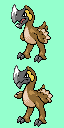
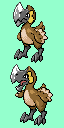
sprite changes & slight stat changes

Changed region(s): [[0.1562, 0.0, 0.8125, 0.5], [0.1562, 0.5, 0.8438, 1.0]]

diff --git a/src/data/pokemon/species_info/custom.h b/src/data/pokemon/species_info/custom.h
@@ -142,7 +142,7 @@ const struct SpeciesInfo gSpeciesInfoGen2[] =
         BACK_PIC(Toxatrice, 64, 64),
         BACK_PIC_FEMALE(Toxatrice, 64, 64),
         .backPicYOffset = 2,
-        .backAnimId = BACK_ANIM_JOLT_RIGHT,
+        .backAnimId = BACK_ANIM_DIP_RIGHT_SIDE,
         PALETTES(Toxatrice),
         ICON(Toxatrice, 2),
         ICON_FEMALE(Toxatrice, 2),
@@ -240,7 +240,7 @@ const struct SpeciesInfo gSpeciesInfoGen2[] =
         .frontAnimId = ANIM_V_STRETCH,
         BACK_PIC(Rubecko, 64, 64),
         .backPicYOffset = 6,
-        .backAnimId = BACK_ANIM_H_STRETCH,
+        .backAnimId = BACK_ANIM_H_SLIDE,
         PALETTES(Rubecko),
         ICON(Rubecko, 1),
         .footprint = gMonFootprint_Rubecko,
@@ -289,8 +289,8 @@ const struct SpeciesInfo gSpeciesInfoGen2[] =
         .frontAnimId = ANIM_V_STRETCH,
         BACK_PIC(Drabuncle, 64, 64),
         BACK_PIC_FEMALE(Drabuncle, 64, 64),
-        .backPicYOffset = 5,
-        .backAnimId = BACK_ANIM_JOLT_RIGHT,
+        .backPicYOffset = 0,
+        .backAnimId = BACK_ANIM_H_SLIDE,
         PALETTES(Drabuncle),
         ICON(Drabuncle, 1),
         ICON_FEMALE(Drabuncle, 1),
@@ -387,7 +387,7 @@ const struct SpeciesInfo gSpeciesInfoGen2[] =
         .frontAnimFrames = sAnims_Chimera2,
         .frontAnimId = ANIM_BACK_AND_LUNGE,
         BACK_PIC(Chimera2, 64, 64),
-        .backPicYOffset = 2,
+        .backPicYOffset = 7,
         .backAnimId = BACK_ANIM_H_STRETCH,
         PALETTES(Chimera2),
         ICON(Chimera2, 0),
@@ -398,12 +398,12 @@ const struct SpeciesInfo gSpeciesInfoGen2[] =
 
     [SPECIES_CHIMERA3] =
     {
-        .baseHP        = 105,
-        .baseAttack    = 115,
-        .baseDefense   = 90,
+        .baseHP        = 115,
+        .baseAttack    = 95,
+        .baseDefense   = 95,
         .baseSpeed     = 60,
         .baseSpAttack  = 75,
-        .baseSpDefense = 90,
+        .baseSpDefense = 95,
         .types = { TYPE_FIGHTING, TYPE_DARK },
         .catchRate = 45,
         .expYield = 265,
@@ -437,7 +437,7 @@ const struct SpeciesInfo gSpeciesInfoGen2[] =
         .frontAnimId = ANIM_H_VIBRATE,
         BACK_PIC(Chimera3, 64, 64),
         BACK_PIC_FEMALE(Chimera3, 64, 64),
-        .backPicYOffset = 7,
+        .backPicYOffset = 0,
         .backAnimId = BACK_ANIM_JOLT_RIGHT,
         PALETTES(Chimera3),
         ICON(Chimera3, 2),
@@ -533,7 +533,7 @@ const struct SpeciesInfo gSpeciesInfoGen2[] =
         FRONT_PIC(Dodo2, 64, 64),
         .frontPicYOffset = 0,
         .frontAnimFrames = sAnims_Dodo2,
-        .frontAnimId = ANIM_V_STRETCH,
+        .frontAnimId = ANIM_H_JUMPS,
         BACK_PIC(Dodo2, 64, 64),
         .backPicYOffset = 6,
         .backAnimId = BACK_ANIM_H_STRETCH,

diff --git a/src/data/pokemon/level_up_learnsets.h b/src/data/pokemon/level_up_learnsets.h
@@ -23294,7 +23294,7 @@ static const struct LevelUpMove sChimera1LevelUpLearnset[] = {
     LEVEL_UP_MOVE(25, MOVE_TAKE_DOWN),
     LEVEL_UP_MOVE(31, MOVE_BOUNCE),
     LEVEL_UP_MOVE(37, MOVE_DOUBLE_TEAM),
-    LEVEL_UP_MOVE(40, MOVE_HI_JUMP_KICK),
+    LEVEL_UP_MOVE(40, MOVE_HIGH_JUMP_KICK),
     LEVEL_UP_MOVE(43, MOVE_SKULL_BASH),
     LEVEL_UP_MOVE(46, MOVE_STOMPING_TANTRUM),
     LEVEL_UP_END
@@ -23315,7 +23315,7 @@ static const struct LevelUpMove sChimera2LevelUpLearnset[] = {
     LEVEL_UP_MOVE(30, MOVE_TAKE_DOWN),
     LEVEL_UP_MOVE(35, MOVE_BOUNCE),
     LEVEL_UP_MOVE(40, MOVE_DOUBLE_TEAM),
-    LEVEL_UP_MOVE(45, MOVE_HI_JUMP_KICK),
+    LEVEL_UP_MOVE(45, MOVE_HIGH_JUMP_KICK),
     LEVEL_UP_MOVE(47, MOVE_SKULL_BASH),
     LEVEL_UP_MOVE(55, MOVE_STOMPING_TANTRUM),
     LEVEL_UP_END

diff --git a/src/data/pokemon_graphics/front_pic_anims.h b/src/data/pokemon_graphics/front_pic_anims.h
@@ -10207,7 +10207,7 @@ static const union AnimCmd sAnim_Hatchik_1[] =
 
 static const union AnimCmd sAnim_Dodo2_1[] =
 {
-    ANIMCMD_FRAME(0, 5),
+    ANIMCMD_FRAME(0, 10),
     ANIMCMD_FRAME(1, 25),
     ANIMCMD_FRAME(0, 5),
     ANIMCMD_END,
